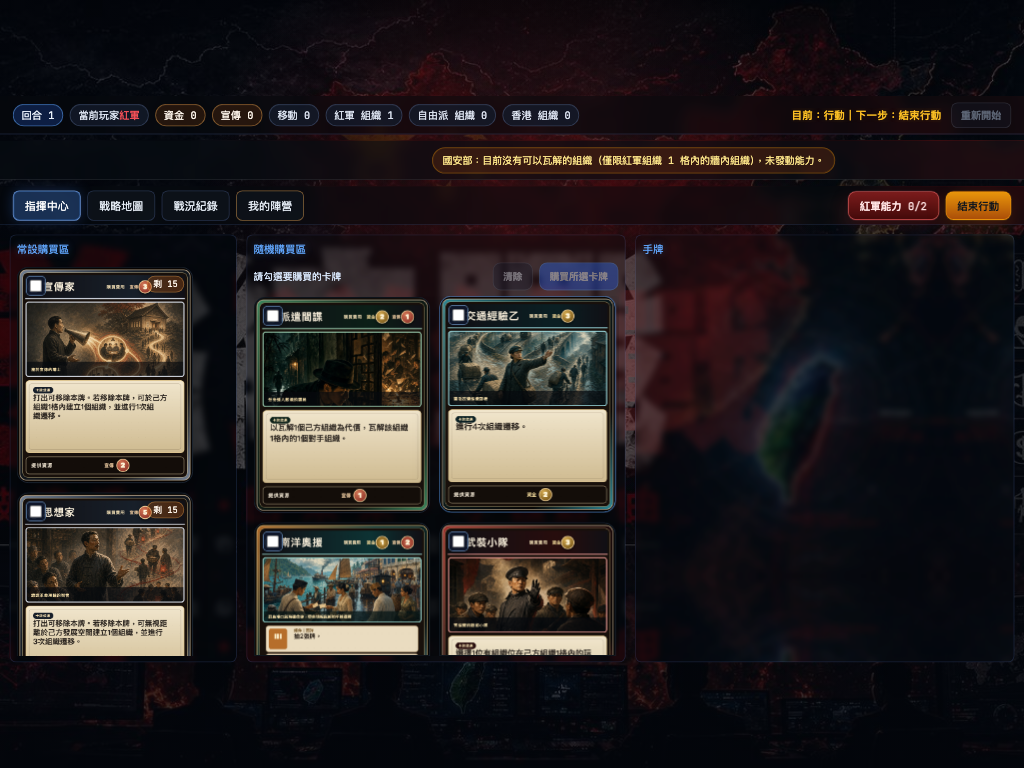
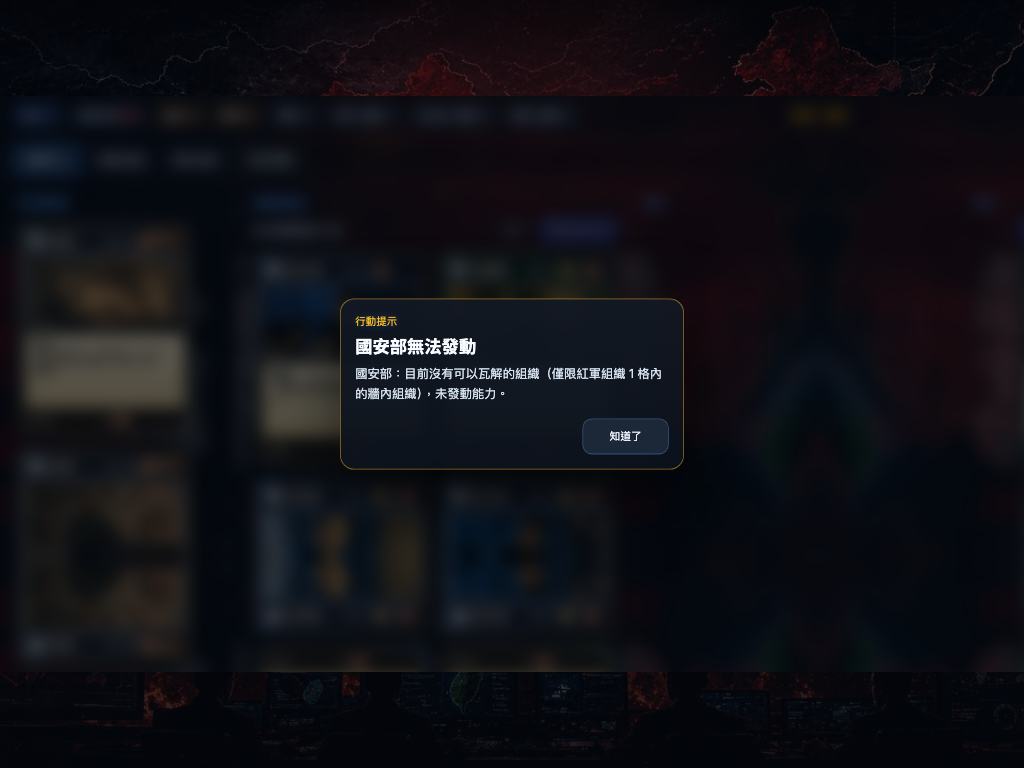
ui: 以跳出視窗提示無合法目標

diff --git a/static/app.js b/static/app.js
@@ -29,6 +29,7 @@ let lastSupportChoiceMapHighlightPayload = null;
 let lastEventRevealKey = null;
 let stickyPlayerErrorNotice = '';
 let stickyPlayerErrorTimer = null;
+let unavailableActionModalReturnFocus = null;
 const selectedPurchaseIndices = new Set();
 // 這兩張卡的取消能力只能被動觸發（其他玩家打出可取消的卡牌時自動跳出反應視窗），
 // 自己回合主動點「行動」不會取消任何東西，白白浪費這張卡，因此手牌區直接 disable。
@@ -2753,6 +2754,44 @@ function setPhaseActionNotice(message = '') {
   notice.classList.toggle('visible', !!message);
 }
 
+function clearStickyPlayerErrorNotice() {
+  if (stickyPlayerErrorTimer) clearTimeout(stickyPlayerErrorTimer);
+  stickyPlayerErrorNotice = '';
+  stickyPlayerErrorTimer = null;
+  setPhaseActionNotice('');
+}
+
+function showUnavailableActionModal(actionName, message) {
+  const modal = document.getElementById('unavailableActionModal');
+  const title = document.getElementById('unavailableActionTitle');
+  const body = document.getElementById('unavailableActionMessage');
+  if (!modal || !title || !body) return;
+  clearStickyPlayerErrorNotice();
+  unavailableActionModalReturnFocus = document.activeElement instanceof HTMLElement ? document.activeElement : null;
+  title.textContent = actionName ? `${actionName}無法發動` : '無法發動能力';
+  body.textContent = message || '目前沒有合法目標，未發動能力。';
+  modal.style.display = 'flex';
+  modal.setAttribute('aria-hidden', 'false');
+  requestAnimationFrame(() => document.getElementById('closeUnavailableActionModalBtn')?.focus());
+}
+
+function closeUnavailableActionModal() {
+  const modal = document.getElementById('unavailableActionModal');
+  if (!modal || modal.style.display === 'none') return;
+  modal.style.display = 'none';
+  modal.setAttribute('aria-hidden', 'true');
+  if (unavailableActionModalReturnFocus?.isConnected) unavailableActionModalReturnFocus.focus();
+  unavailableActionModalReturnFocus = null;
+}
+
+document.addEventListener('keydown', event => {
+  if (event.key !== 'Escape') return;
+  const modal = document.getElementById('unavailableActionModal');
+  if (modal?.style.display !== 'flex') return;
+  event.preventDefault();
+  closeUnavailableActionModal();
+});
+
 function showStickyPlayerErrorNotice(message, durationMs = 5000) {
   stickyPlayerErrorNotice = message || '';
   if (stickyPlayerErrorTimer) clearTimeout(stickyPlayerErrorTimer);
@@ -2816,9 +2855,13 @@ function renderFactionActionResult(state, faction) {
     const resultKey = JSON.stringify(result);
     if (lastFactionActionResultKey !== resultKey) {
       lastFactionActionResultKey = resultKey;
-      showStickyPlayerErrorNotice(message);
+      if (result.unavailable) {
+        showUnavailableActionModal(result.name, message);
+      } else {
+        showStickyPlayerErrorNotice(message);
+      }
     }
-    const html = `<div class="faction-action-result">${escapeHtml(message)}</div>`;
+    const html = result.unavailable ? '' : `<div class="faction-action-result">${escapeHtml(message)}</div>`;
     info.innerHTML = html;
     return {hasResult: true, message, html};
   }

diff --git a/static/index.html b/static/index.html
@@ -4,7 +4,7 @@
   <meta charset="UTF-8" />
   <title>REDLINE // STRATEGIC COMMAND</title>
   <link rel="icon" href="data:," />
-  <link rel="stylesheet" href="/static/style.css?v=victory-summary-density-20260823" />
+  <link rel="stylesheet" href="/static/style.css?v=unavailable-action-modal-20260823" />
 </head>
 <body>
 <div id="stageViewport">
@@ -147,6 +147,17 @@
     </div>
     <div id="factionActionModalRewardHint" class="modal-body-text" style="margin-top:4px; margin-bottom:12px;">猜中可獲得資金與宣傳；沒猜中則獲得較少獎勵。</div>
     <button id="closeFactionActionModal" class="modal-cancel-btn">取消</button>
+  </div>
+</div>
+
+<div id="unavailableActionModal" class="modal-overlay unavailable-action-modal" role="dialog" aria-modal="true" aria-labelledby="unavailableActionTitle" aria-describedby="unavailableActionMessage" aria-hidden="true" style="display:none;" onclick="if (event.target === this) closeUnavailableActionModal()">
+  <div class="modal-glass unavailable-action-glass">
+    <div class="panel-title">行動提示</div>
+    <div id="unavailableActionTitle" class="modal-title-text">無法發動能力</div>
+    <div id="unavailableActionMessage" class="modal-body-text"></div>
+    <div class="unavailable-action-actions">
+      <button id="closeUnavailableActionModalBtn" type="button" class="modal-choice-btn" onclick="closeUnavailableActionModal()">知道了</button>
+    </div>
   </div>
 </div>
 
@@ -338,6 +349,6 @@
 </div>
 <script src="https://unpkg.com/leaflet@1.9.4/dist/leaflet.js"></script>
 <script src="/static/player_messages_zh_tw.js?v=player-message-i18n-20260801"></script>
-<script src="/static/app.js?v=victory-summary-density-20260823"></script>
+<script src="/static/app.js?v=unavailable-action-modal-20260823"></script>
 </body>
 </html>

diff --git a/static/style.css b/static/style.css
@@ -1766,6 +1766,40 @@ body {
   margin-bottom: 14px;
 }
 
+.unavailable-action-modal {
+  background: rgba(4, 8, 14, 0.62);
+}
+
+.unavailable-action-glass {
+  width: 430px;
+  border-color: rgba(251, 191, 36, 0.52);
+  background: linear-gradient(180deg, rgba(18, 24, 35, 0.96), rgba(12, 18, 28, 0.94));
+  box-shadow: 0 26px 88px rgba(0, 0, 0, 0.62), inset 0 1px 0 rgba(255, 255, 255, 0.07);
+}
+
+.unavailable-action-glass .panel-title {
+  color: #fbbf24;
+}
+
+.unavailable-action-glass .modal-title-text {
+  font-size: 1.35rem;
+}
+
+.unavailable-action-glass .modal-body-text {
+  font-size: 0.96rem;
+  line-height: 1.65;
+  margin-bottom: 18px;
+}
+
+.unavailable-action-actions {
+  display: flex;
+  justify-content: flex-end;
+}
+
+.unavailable-action-actions .modal-choice-btn {
+  min-width: 108px;
+}
+
 .modal-choice-row {
   display: flex;
   flex-wrap: nowrap;

diff --git a/scripts/validate_red_army_empty_ability_feedback.py b/scripts/validate_red_army_empty_ability_feedback.py
@@ -66,29 +66,47 @@ def main() -> None:
             page.locator("#factionActionModalChoices .modal-choice-btn", has_text=f"發動 {ability_name}").click()
             page.wait_for_timeout(700)
             state = page.evaluate(
-                """() => ({
-                  notice: document.getElementById('phaseActionNotice')?.textContent.trim() || '',
-                  noticeTitle: document.getElementById('phaseActionNotice')?.title || '',
-                  noticeVisible: document.getElementById('phaseActionNotice')?.classList.contains('visible') || false,
-                  pendingChoice: window.lastGameState?.pending_choice?.choice_key || null,
-                  usedCount: Number(window.lastGameState?.red_army_action_count || 0),
-                  result: window.lastGameState?.last_action_result || null,
-                })"""
+                """() => {
+                  const modal = document.getElementById('unavailableActionModal');
+                  const glass = modal?.querySelector('.unavailable-action-glass');
+                  const rect = glass?.getBoundingClientRect();
+                  return {
+                    notice: document.getElementById('phaseActionNotice')?.textContent.trim() || '',
+                    noticeVisible: document.getElementById('phaseActionNotice')?.classList.contains('visible') || false,
+                    modalVisible: modal?.style.display === 'flex' && modal?.getAttribute('aria-hidden') === 'false',
+                    modalTitle: document.getElementById('unavailableActionTitle')?.textContent.trim() || '',
+                    modalMessage: document.getElementById('unavailableActionMessage')?.textContent.trim() || '',
+                    focusedId: document.activeElement?.id || '',
+                    modalRect: rect ? {left:rect.left, top:rect.top, right:rect.right, bottom:rect.bottom, width:rect.width, height:rect.height} : null,
+                    pendingChoice: window.lastGameState?.pending_choice?.choice_key || null,
+                    usedCount: Number(window.lastGameState?.red_army_action_count || 0),
+                    result: window.lastGameState?.last_action_result || null,
+                  };
+                }"""
             )
             record(
-                f"{ability_name}_shows_in_page_unavailable_notice",
-                state["noticeVisible"] and expected_text in state["notice"] and state["noticeTitle"] == state["notice"] and state["pendingChoice"] is None and state["usedCount"] == 0,
+                f"{ability_name}_shows_blocking_unavailable_modal_without_hud_notice",
+                state["modalVisible"] and state["modalTitle"] == f"{ability_name}無法發動" and expected_text in state["modalMessage"] and not state["noticeVisible"] and not state["notice"] and state["focusedId"] == "closeUnavailableActionModalBtn" and state["pendingChoice"] is None and state["usedCount"] == 0,
                 state,
             )
             if ability_name == "國安部":
                 page.screenshot(path=str(SCREENSHOT), full_page=True)
+                if state["modalVisible"]:
+                    page.locator("#closeUnavailableActionModalBtn").click()
+                    page.wait_for_function("document.getElementById('unavailableActionModal')?.style.display === 'none'")
+                record(
+                    "unavailable_modal_can_be_closed_without_creating_hud_notice",
+                    state["modalVisible"] and page.evaluate("document.getElementById('unavailableActionModal')?.style.display === 'none' && !document.getElementById('phaseActionNotice')?.classList.contains('visible') && !document.getElementById('phaseActionNotice')?.textContent.trim()"),
+                    {"modalWasVisible": state["modalVisible"]},
+                )
+                page.evaluate("message => showUnavailableActionModal('國安部', message)", state["modalMessage"])
                 page.set_viewport_size({"width": 1024, "height": 768})
                 page.wait_for_timeout(150)
                 page.screenshot(path=str(SCREENSHOT_1024), full_page=True)
             page.close()
         browser.close()
 
-    record("unavailable_abilities_do_not_use_blocking_alert", not dialogs, dialogs)
+    record("unavailable_abilities_do_not_use_browser_native_dialog", not dialogs, dialogs)
     record("browser_console_has_no_errors", not console_errors, console_errors)
     summary = {"total": len(checks), "passed": sum(1 for check in checks if check["passed"]), "failed": sum(1 for check in checks if not check["passed"])}
     report = {

diff --git a/TODO.md b/TODO.md
@@ -35,10 +35,11 @@
 - [done] 回報情境：按下「國安部」時，如果紅軍組織 1 格內沒有可以瓦解的牆內組織，畫面沒有留下清楚提示。原始廣泛 Browser proof 只有 **1/6 passed**。
 - [done] 規則更正：統戰部抽牌堆空時會洗回棄牌堆再抽牌，不屬於「無目標」能力；政工部必定有其他玩家，不需要「沒有目標玩家」分支。已移除這兩個錯誤假設，並新增統戰部洗牌後正常抽 1 張的回歸測試。
 - [done] 盤點需要無內容提示的實際分支：政工部內鬥與分神供應皆空；國安部沒有合法瓦解組織；中紀委沒有手牌。這些情況現在都在取消反應視窗與 pending choice 以前完成 preflight。
-- [done] 無可執行內容時回傳統一的 `unavailable` 結果與具體繁體中文訊息。能力不扣次數、不記錄事件進度、不消耗卡牌或供應、不開啟取消反應、不建立空選擇，也不留下 modal 或地圖 targeting 狀態。
-- [done] 修正共用提示路徑：`renderBaseSelection()` 不再於非根據地階段清除其他功能的提示；陣營能力結果改用 5 秒 sticky notice。此修正同時涵蓋統戰部、政工部、國安部、中紀委、立場試探、賭徒耳語與民族祭儀。提示支援完整 `title`，並將桌面最大寬度提高到 720px。
+- [done] 無可執行內容時回傳統一的 `unavailable` 結果與具體繁體中文訊息。能力不扣次數、不記錄事件進度、不消耗卡牌或供應、不開啟取消反應、不建立空選擇，也不留下目標選擇 modal 或地圖 targeting 狀態。
+- [done] 2026-08-23 UI 調整：`unavailable` 結果改用置中、阻擋式的「行動提示」視窗，標題顯示「能力名稱＋無法發動」，並提供「知道了」、背景點擊及 Esc 關閉。提示開啟後焦點移到關閉按鈕，關閉後恢復原焦點。
+- [done] 無合法目標不再寫入 `#phaseActionNotice`，因此不會在 HUD 控制列突然增加黃色提示內容；也不再於陣營能力資訊區重複顯示。其他成功的陣營能力結果仍沿用 5 秒 sticky notice。
 - [done] 其他合法目標流程稽核：建立卡、互動奧援、間諜卡、範圍內組織、時代建立與通用 target error 均已有出牌前合法性守門、繁體中文映射及 sticky error notice；既有無目標 action-card regression 保持通過。另將國安部的 fallback error 文案改成「目前沒有可以瓦解的組織」。
-- [done] 驗證：規則更正後單元測試 **5/5 passed**（含統戰部洗回棄牌堆後抽牌）；紅軍能力正常與無供應流程 **8/8 passed**；無內容 Browser proof **5/5 passed**；玩家訊息 Browser proof **10/10 passed**；紅軍按鈕位置 **6/6 passed**；精簡紅軍 UI **7/7 passed**；command header **10/10 passed**；全畫面狀態列 **10/10 passed**；完整 pytest **406/406 passed**；Browser console 0 errors。證據：`docs/records/playtest-flow/red-army-empty-ability-feedback/`。
+- [done] 驗證：單元測試 **5/5 passed**；紅軍能力正常與無供應流程 **8/8 passed**；無內容 modal Browser proof **6/6 passed**；全畫面狀態列 **10/10 passed**；完整 pytest **406/406 passed**；Browser console 0 errors。證據：`docs/records/playtest-flow/red-army-empty-ability-feedback/`。
 
 ### P1：哈薩克達成勝利條件卻被紅軍第 20 回合生存勝利覆蓋
 - [done] 回報情境：哈薩克已有阿勒泰、塔城、伊寧，牆內外共有 19 個組織；第 21 回合結算仍判定紅軍獲勝。回報截圖：`docs/records/playtest-flow/kazakh-victory-preempted-by-red-survival_20260822.jpg`。

diff --git a/docs/records/playtest-flow/red-army-empty-ability-feedback/RED_ARMY_EMPTY_ABILITY_FEEDBACK_VALIDATION.md b/docs/records/playtest-flow/red-army-empty-ability-feedback/RED_ARMY_EMPTY_ABILITY_FEEDBACK_VALIDATION.md
@@ -1,9 +1,10 @@
 # 紅軍能力無可執行內容 Browser 驗證
 
-Summary: **5/5 passed**
+Summary: **6/6 passed**
 
-- PASS: `政工部_shows_in_page_unavailable_notice`
-- PASS: `國安部_shows_in_page_unavailable_notice`
-- PASS: `中紀委_shows_in_page_unavailable_notice`
-- PASS: `unavailable_abilities_do_not_use_blocking_alert`
+- PASS: `政工部_shows_blocking_unavailable_modal_without_hud_notice`
+- PASS: `國安部_shows_blocking_unavailable_modal_without_hud_notice`
+- PASS: `unavailable_modal_can_be_closed_without_creating_hud_notice`
+- PASS: `中紀委_shows_blocking_unavailable_modal_without_hud_notice`
+- PASS: `unavailable_abilities_do_not_use_browser_native_dialog`
 - PASS: `browser_console_has_no_errors`
